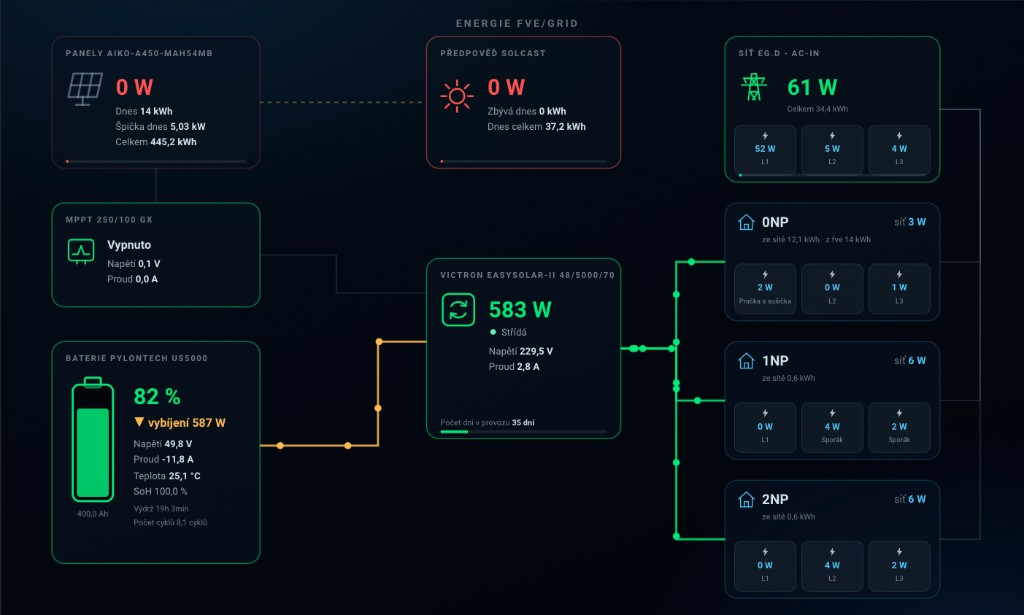
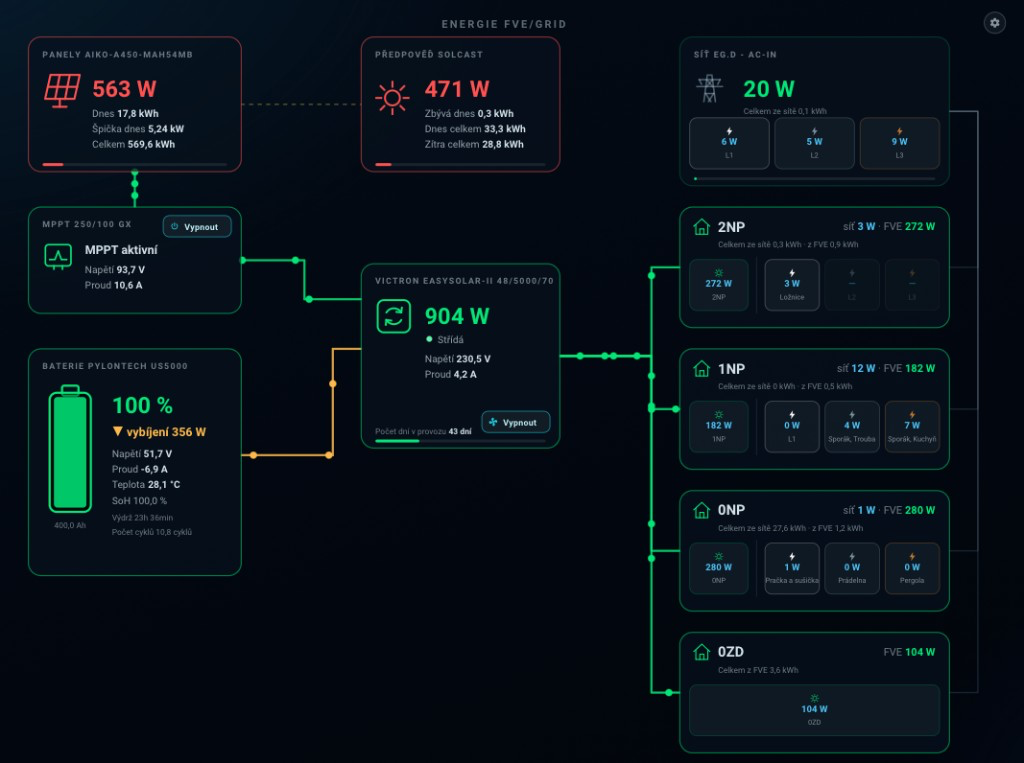
Release v0.6.0: Hybrid Energy Flow + spotřeba FVE/síť na mini kartě
Přejmenování viditelného brandingu na Hybrid Energy Flow (technické
type: fve-flow-* zůstává). Mini karta ukazuje spotřebu z FVE a ze sítě
vedle bateriového gauge. Aktualizovaný náhled v README.

diff --git a/src/fve-flow-mini-card.ts b/src/fve-flow-mini-card.ts
@@ -10,6 +10,8 @@ import './mini-editor';
 
 const C_ACTUAL = '#00e676';
 const C_FORECAST = '#ffd54f';
+const C_FVE_LOAD = '#00e676';
+const C_GRID = '#4fc3f7';
 const HISTORY_REFRESH_MS = 5 * 60 * 1000;
 
 /**
@@ -137,6 +139,8 @@ export class FveFlowMiniCard extends LitElement {
       pv_power: 'sensor.smartsolar_mppt_ve_can_250_100_rev2_id_273_vynosovy_vykon_fotovoltaiky',
       solcast_power_now: 'sensor.solcast_pv_forecast_power_now',
       solcast_total_today: 'sensor.solcast_pv_forecast_forecast_today',
+      fve_load: 'sensor.gx_device_kriticke_zateze_na_l1',
+      grid_power: 'sensor.1np_vstupni_chodba_dub_1nb_grid_ac_in_vykon',
       navigation_path: '/lovelace/fve-flow',
     };
   }
@@ -169,6 +173,10 @@ export class FveFlowMiniCard extends LitElement {
 
     const pvNow = toNum(this.hass, cfg.pv_power);
     const solcastNow = toNum(this.hass, cfg.solcast_power_now);
+    const fveLoad = toNum(this.hass, cfg.fve_load);
+    const gridLoad = toNum(this.hass, cfg.grid_power);
+    const showFveLoad = !!cfg.fve_load;
+    const showGridLoad = !!cfg.grid_power;
 
     const forecastPoints = this._forecastPoints();
     const chartMinPower = cfg.chart_min_power_w ?? 50;
@@ -181,6 +189,11 @@ export class FveFlowMiniCard extends LitElement {
     const cx = W / 2;
     const cy = 114;
     const r = 74;
+    // Postranní spotřeby sedí vedle oblouku gauge (ne pod ním).
+    const sideXLeft = 52;
+    const sideXRight = W - 52;
+    const sideValueY = cy + 2;
+    const sideLabelY = cy + 20;
 
     const infoLines: Array<{ text: string; color?: string; arrow?: 'up' | 'down' }> = [];
     if (b.power) infoLines.push({ text: stateText, color: stateColor, arrow: stateArrow });
@@ -202,6 +215,21 @@ export class FveFlowMiniCard extends LitElement {
         <svg viewBox="0 0 ${W} ${H}" preserveAspectRatio="xMidYMid meet" role="img">
           ${cfg.title
             ? svg`<text class="card-title" x="${cx}" y="20" text-anchor="middle">${cfg.title}</text>`
+            : nothing}
+
+          ${showFveLoad
+            ? svg`
+              <text class="side-value" x="${sideXLeft}" y="${sideValueY}" text-anchor="middle"
+                style="fill: ${C_FVE_LOAD}">${formatPower(fveLoad)}</text>
+              <text class="side-label" x="${sideXLeft}" y="${sideLabelY}" text-anchor="middle">FVE</text>
+            `
+            : nothing}
+          ${showGridLoad
+            ? svg`
+              <text class="side-value" x="${sideXRight}" y="${sideValueY}" text-anchor="middle"
+                style="fill: ${C_GRID}">${formatPower(gridLoad)}</text>
+              <text class="side-label" x="${sideXRight}" y="${sideLabelY}" text-anchor="middle">síť</text>
+            `
             : nothing}
 
           ${renderArcGauge(cx, cy, r, soc, 0, 100, { yellowFrom, greenFrom }, socColor)}
@@ -298,6 +326,16 @@ export class FveFlowMiniCard extends LitElement {
       font-size: 13px;
       fill: rgba(226, 240, 248, 0.65);
     }
+    .side-value {
+      font-size: 22px;
+      font-weight: 700;
+    }
+    .side-label {
+      font-size: 11.5px;
+      letter-spacing: 0.12em;
+      text-transform: uppercase;
+      fill: rgba(226, 240, 248, 0.45);
+    }
     .headline-value {
       font-size: 22px;
       font-weight: 700;
@@ -324,9 +362,9 @@ declare global {
 window.customCards = window.customCards || [];
 window.customCards.push({
   type: 'fve-flow-mini-card',
-  name: 'FVE Flow Mini Card',
+  name: 'Hybrid Energy Flow Mini Card',
   description:
-    'Kompaktní karta: baterie jako gauge s výdrží, výroba FVE vs. Solcast predikce. Klik naviguje na velký FVE Flow dashboard.',
+    'Kompaktní karta: baterie jako gauge, spotřeba FVE/síť po stranách, výroba vs. Solcast. Klik naviguje na velký Hybrid Energy Flow dashboard.',
   preview: false,
   documentationURL: 'https://github.com/elvisek/fve-flow-card',
 });

diff --git a/src/mini-editor.ts b/src/mini-editor.ts
@@ -29,6 +29,25 @@ const SCHEMA = [
     ],
   },
   {
+    name: 'loads',
+    type: 'expandable',
+    flatten: true,
+    title: 'Spotřeba FVE / síť',
+    icon: 'mdi:flash',
+    schema: [
+      {
+        name: 'fve_load',
+        selector: ENTITY,
+        custom_label: 'Spotřeba z FVE (W) — vlevo u baterie',
+      },
+      {
+        name: 'grid_power',
+        selector: ENTITY,
+        custom_label: 'Spotřeba ze sítě (W) — vpravo u baterie',
+      },
+    ],
+  },
+  {
     // flatten: true — pole se ukládají přímo do konfigurace karty
     // (pv_power, solcast_power_now, solcast_total_today), sekce je jen
     // vizuální seskupení ve formuláři (vzor floor_grid/floor_fve v editor.ts).
@@ -83,12 +102,16 @@ const HELPERS: Record<string, string> = {
   invert: 'Zapni, pokud tvá baterie hlásí kladný výkon při vybíjení (obrácená konvence než Victron).',
   charge_threshold_w:
     'Od jakého výkonu (W) se baterie počítá jako "nabíjí" — ovlivňuje, kdy se zobrazí řádek "Do plného nabití". Výchozí 25 W potlačí šum kolem nuly; sniž, pokud chceš vidět dobu do nabití i při velmi slabém nabíjení.',
+  fve_load:
+    'Typicky kritické zátěže / výstup měniče (ostrovní spotřeba). Zobrazí se vlevo vedle gauge jako „FVE". Bez entity se levá strana nevykreslí.',
+  grid_power:
+    'Typicky AC-IN ze Shelly. Zobrazí se vpravo vedle gauge jako „síť". Bez entity se pravá strana nevykreslí.',
   solcast_total_today:
     'Stejná entita jako u velké karty ("Dnes celkem") — karta si z jejího atributu detailedForecast sama vybere dnešní hodiny pro graf.',
   chart_min_power_w:
     'Graf se zobrazí jen dokud aktuální výkon FVE ("Realita") dosahuje alespoň této hodnoty — v noci nebo při velmi slabé výrobě tak zmizí úplně (žádný placeholder text). Výchozí 50 W.',
   navigation_path:
-    'Cesta velkého FVE Flow dashboardu, např. /lovelace/fve-flow — najdeš ji v adresním řádku prohlížeče, když máš velkou kartu otevřenou. Bez vyplnění klik na kartu otevře jen historii baterie.',
+    'Cesta velkého Hybrid Energy Flow dashboardu, např. /lovelace/fve-flow — najdeš ji v adresním řádku prohlížeče, když máš velkou kartu otevřenou. Bez vyplnění klik na kartu otevře jen historii baterie.',
 };
 
 @customElement('fve-flow-mini-card-editor')

diff --git a/src/types.ts b/src/types.ts
@@ -224,6 +224,10 @@ export interface FveFlowMiniCardConfig {
   type: string;
   title?: string;
   battery?: BatteryConfig;
+  /** Spotřeba z FVE / ostrova (W) — vlevo vedle gauge. */
+  fve_load?: string;
+  /** Spotřeba ze sítě (W) — vpravo vedle gauge. */
+  grid_power?: string;
   /** Aktuální výkon FVE panelů (W) — zobrazí se jako „Realita" a v grafu. */
   pv_power?: string;
   /** Predikovaný výkon Solcast teď (W) — zobrazí se jako „Predikce". */
@@ -231,8 +235,8 @@ export interface FveFlowMiniCardConfig {
   /** Entita s atributem `detailedForecast` — zdroj dnešní křivky predikce v grafu. */
   solcast_total_today?: string;
   /**
-   * Minimální dnešní špička výkonu (W) mezi realitou a predikcí, od které
-   * se místo prázdného/plochého grafu zobrazí graf vůbec. Default 50 W.
+   * Minimální aktuální výkon FVE (W), od kterého se zobrazí spodní sekce
+   * s Realitou/Predikcí a grafem. Default 50 W.
    */
   chart_min_power_w?: number;
   /** Cesta pro navigaci po kliknutí na kartu, např. `/lovelace/fve-flow`. */

diff --git a/src/fve-flow-card.ts b/src/fve-flow-card.ts
@@ -59,7 +59,7 @@ const PHASE_STYLE: Record<string, { color: string; border: string }> = {
 };
 
 console.info(
-  `%c FVE-FLOW-CARD %c v${CARD_VERSION} `,
+  `%c HYBRID-ENERGY-FLOW %c v${CARD_VERSION} `,
   'color: #0a0f16; background: #00e676; font-weight: 700;',
   'color: #00e676; background: #0a0f16; font-weight: 700;',
 );
@@ -1128,9 +1128,9 @@ declare global {
 window.customCards = window.customCards || [];
 window.customCards.push({
   type: 'fve-flow-card',
-  name: 'FVE Flow Card',
+  name: 'Hybrid Energy Flow Card',
   description:
-    'Animovaný diagram toků energie pro ostrovní FVE (Victron) + grid po patrech (Shelly), se Solcast predikcí.',
+    'Animovaný diagram toků energie pro hybridní instalaci: ostrovní FVE (Victron) + grid po patrech (Shelly), se Solcast predikcí.',
   preview: false,
   documentationURL: 'https://github.com/elvisek/fve-flow-card',
 });

diff --git a/src/history-dialog.ts b/src/history-dialog.ts
@@ -187,7 +187,7 @@ export async function openHistoryDialog(options: HistoryDialogOptions): Promise<
       ]);
     }
     if (!customElements.get('apexcharts-card')) {
-      console.warn('[FVE Flow Card] apexcharts-card není zaregistrovaná.');
+      console.warn('[Hybrid Energy Flow] apexcharts-card není zaregistrovaná.');
       return false;
     }
 
@@ -261,7 +261,7 @@ export async function openHistoryDialog(options: HistoryDialogOptions): Promise<
     );
     return true;
   } catch (error) {
-    console.warn('[FVE Flow Card] Nepodařilo se otevřít 48h graf, používám nativní historii.', error);
+    console.warn('[Hybrid Energy Flow] Nepodařilo se otevřít 48h graf, používám nativní historii.', error);
     return false;
   }
 }

diff --git a/README.md b/README.md
@@ -1,9 +1,12 @@
-# FVE Flow Card
+# Hybrid Energy Flow Card
 
 Custom Lovelace karta pro Home Assistant — animovaný diagram toků energie na míru
-**ostrovní FVE (Victron)** + **grid po patrech (Shelly)**, se Solcast predikcí.
+**hybridní instalaci**: ostrovní FVE (Victron) + grid po patrech (Shelly), se Solcast predikcí.
 
-![FVE Flow Card — náhled](docs/preview.png)
+> Technický typ karty zůstává `custom:fve-flow-card` (a mini `custom:fve-flow-mini-card`),
+> aby se nerozbily existující dashboardy. V HACS a výběru karet se zobrazuje nový název.
+
+![Hybrid Energy Flow Card — náhled](docs/preview.png)
 
 - Ostrovní větev: FVE panely → MPPT → baterie Pylontech ↔ MultiPlus-II → patra
 - Gridová větev: AC-IN (Shelly) → patra, každé patro s pojmenovanými fázemi
@@ -37,7 +40,7 @@ názvech, funguje s čímkoli, co vrací čísla ve W / kWh / %.
 1. HACS → tři tečky vpravo nahoře → **Custom repositories**
 2. Vlož URL tohoto repozitáře, kategorie **Dashboard** (Lovelace)
 3. Pro vlastní grafy nainstaluj z HACS také **ApexCharts Card**
-4. Nainstaluj **FVE Flow Card** a reloadni prohlížeč
+4. Nainstaluj **Hybrid Energy Flow Card** a reloadni prohlížeč
 
 HACS řeší registraci resource i cache-busting automaticky; updaty se nabízejí
 z GitHub releases.
@@ -51,7 +54,7 @@ z GitHub releases.
 
 ## Konfigurace
 
-Kartu přidáš přes výběr karet (**FVE Flow Card**) a nakonfiguruješ v GUI editoru.
+Kartu přidáš přes výběr karet (**Hybrid Energy Flow Card**) a nakonfiguruješ v GUI editoru.
 Ekvivalentní YAML:
 
 ```yaml
@@ -179,16 +182,16 @@ Poznámky:
 - Fullscreen: použij view `type: panel` s jedinou touto kartou
   (ukázka v `lovelace/fve_flow/fve-flow.yaml` v nadřazeném repu konfigurace).
 
-## FVE Flow Mini Card
+## Hybrid Energy Flow Mini Card
 
 Druhá karta ve stejném balíčku — kompaktní shrnutí pro hlavní dashboard
 (nahrazuje např. samostatnou kartu „Solární výroba" + „Stav baterie").
 Baterie je hlavní ukazatel jako půlkruhový gauge se semaforovými zónami,
-pod ním hlavičkové hodnoty „Realita" (aktuální výkon FVE) vs. „Predikce"
-(Solcast) a lehký graf dnešního dne. **Klik kamkoli na kartu** naviguje na
-velký `fve-flow-card` dashboard.
+po stranách spotřeba z FVE a ze sítě, pod ním (když FVE vyrábí) hlavičkové
+hodnoty „Realita" vs. „Predikce" a lehký graf dnešního dne.
+**Klik kamkoli na kartu** naviguje na velký Hybrid Energy Flow dashboard.
 
-![FVE Flow Mini Card — náhled](docs/preview-mini.png)
+![Hybrid Energy Flow Mini Card — náhled](docs/preview-mini.png)
 
 ```yaml
 type: custom:fve-flow-mini-card
@@ -203,6 +206,8 @@ battery:
   yellow_from: 15                              # default 15
   green_from: 40                               # default 40
   name: Baterie Pylontech
+fve_load: sensor.gx_kriticke_zateze            # spotřeba z FVE — vlevo u gauge
+grid_power: sensor.grid_ac_in_vykon            # spotřeba ze sítě — vpravo u gauge
 pv_power: sensor.mppt_vykon_fotovoltaiky       # „Realita" + graf dnešní výroby
 solcast_power_now: sensor.solcast_power_now    # „Predikce"
 solcast_total_today: sensor.solcast_forecast_today  # zdroj detailedForecast pro graf
@@ -212,6 +217,9 @@ navigation_path: /lovelace/fve-flow            # cesta velkého dashboardu
 
 Poznámky:
 
+- **Spotřeba FVE / síť**: `fve_load` a `grid_power` se zobrazí vlevo/vpravo
+  vedle bateriového gauge (zelená „FVE" / modrá „síť"). Bez entity se daná
+  strana nevykreslí — karta dává smysl i v noci, kdy spodní graf výroby zmizí.
 - **Bez `apexcharts-card`** — graf je vlastní lehký SVG (žádná externí závislost).
 - **Stav baterie**: pokud je vyplněné `battery.power`, zobrazí se pod názvem řádek
   „Nabíjení …" / „Vybíjení …" / „Klidový stav" s vektorovou šipkou nahoru/dolů
@@ -235,7 +243,7 @@ Poznámky:
 - **Navigace**: bez `navigation_path` otevře klik jen nativní historii baterie
   (fallback), jinak přepne na zadaný dashboard stejným mechanismem jako
   tlačítko nastavení ve velké kartě.
-- Konfiguruje se stejně přes GUI editor karty (výběr **FVE Flow Mini Card**).
+- Konfiguruje se stejně přes GUI editor karty (výběr **Hybrid Energy Flow Mini Card**).
 
 ## Vývoj
 